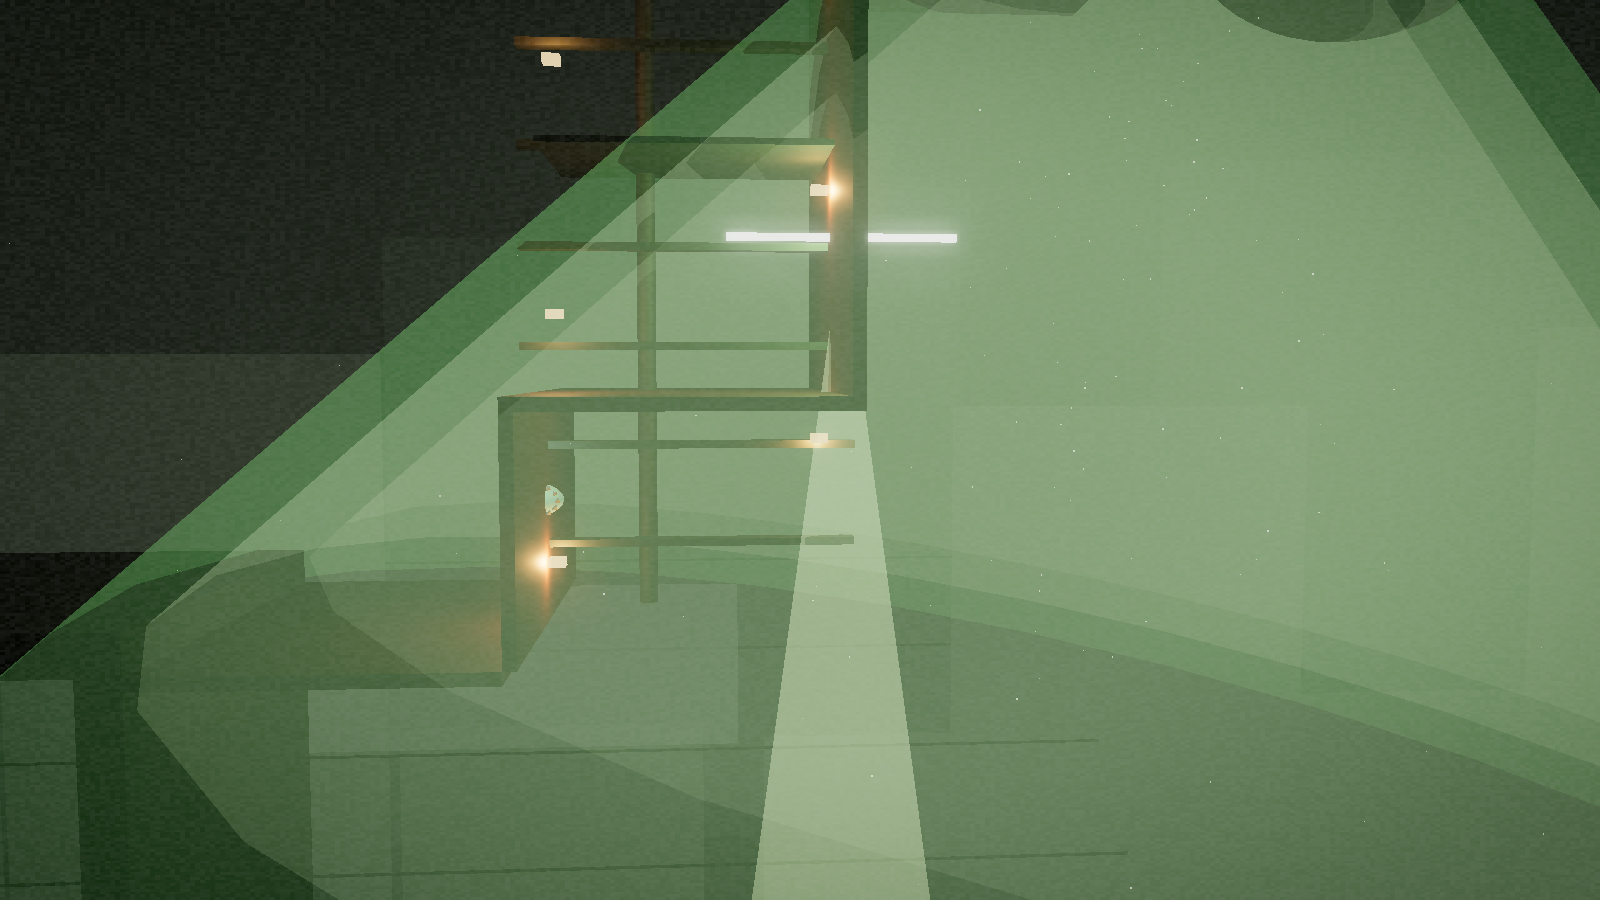
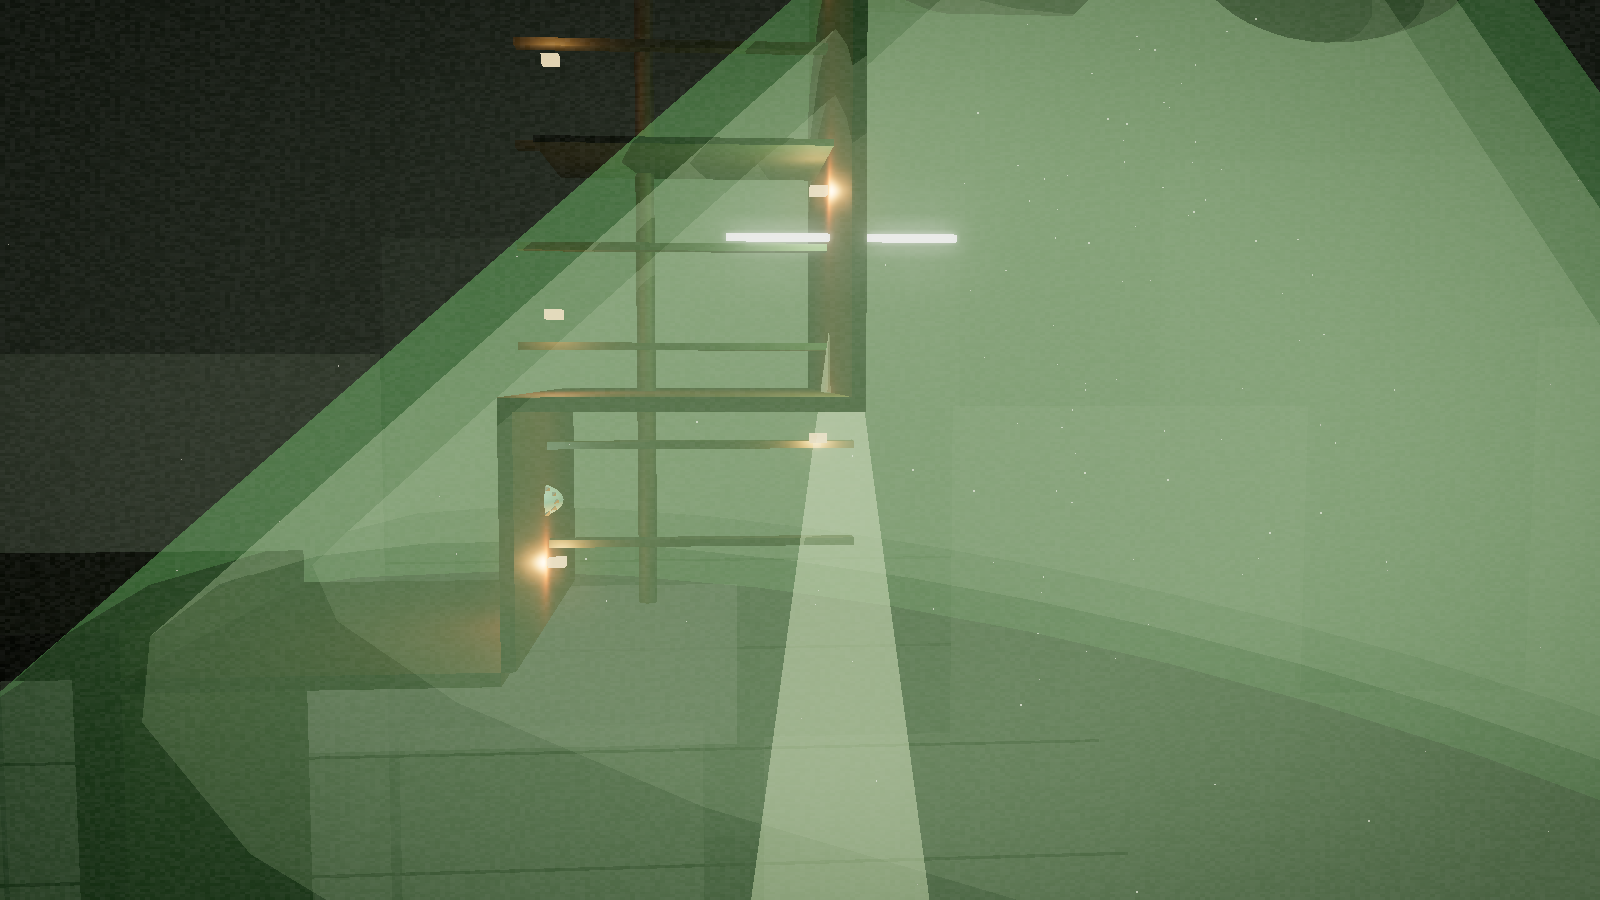
v0.0.1.29 feat(game): title card onboarding, softer flicker (1.2Hz), correct level duration to ~45s

diff --git a/games/pingchuan-rail/game/index.html b/games/pingchuan-rail/game/index.html
@@ -13,7 +13,19 @@
     font: 13px/1.5 "Consolas", "Courier New", monospace; color: #cfd6c9; opacity: .55;
     letter-spacing: .06em; pointer-events: none; text-shadow: 0 1px 4px #000;
   }
-  #hint.hidden { opacity: 0; }
+  #hint {
+    position: fixed; inset: 0; display: flex; flex-direction: column;
+    align-items: center; justify-content: center; gap: .6em;
+    background: radial-gradient(circle at 50% 45%, rgba(10, 14, 10, .55), rgba(6, 8, 6, .9));
+    text-align: center; transition: opacity .45s ease;
+  }
+  .hint-title { font-size: 28px; letter-spacing: .22em; color: #d8e6cf; }
+  .hint-line { font-size: 14px; color: #9aa895; max-width: 32em; line-height: 1.7; }
+  .hint-keys { font-size: 13px; color: #c6d3bd; letter-spacing: .04em; margin-top: .4em; }
+  .hint-tip { font-size: 12px; color: #7d8a78; }
+  .hint-start { font-size: 12px; color: #8fa88a; margin-top: 1.2em; animation: breathe 2.4s ease-in-out infinite; }
+  @keyframes breathe { 0%, 100% { opacity: .35; } 50% { opacity: .95; } }
+  #hint.hidden { opacity: 0; pointer-events: none; }
 </style>
 <script type="importmap">
 { "imports": {
@@ -23,7 +35,13 @@
 </script>
 </head>
 <body>
-<div id="hint">← → 爬行 · ↑ ↓ 爬墙 · 空格 蓄力弹射 · R 重来</div>
+<div id="hint">
+  <div class="hint-title">骸轨 · 平川地铁</div>
+  <div class="hint-line">你是地铁里的一条环节虫。往西，尽头有一小块淡蓝色的光。</div>
+  <div class="hint-keys">← → 爬行　·　↑ ↓ 爬到墙上和顶上　·　按住空格蓄力，松手弹射　·　R 重来</div>
+  <div class="hint-tip">被井口的扫描锥扫到会被送回检查点——躲开那束光。</div>
+  <div class="hint-start">按任意键开始</div>
+</div>
 <script type="module">
 import * as THREE from 'three';
 import { EffectComposer } from 'three/addons/postprocessing/EffectComposer.js';
@@ -925,8 +943,8 @@ function updateScanner(deltaSeconds) {
 // 闪烁灯管：2 Hz 的不稳定电，幅度小（不要变成鬼屋）
 function updateFlickerLamps() {
   flickerLamps.forEach((entry, entryIndex) => {
-    const phase = Math.floor(elapsedSeconds * 2.0 + entryIndex * 0.7) % 9;
-    const dip = phase === 2 || phase === 6 ? 0.25 : 1.0;
+    const phase = Math.floor(elapsedSeconds * 1.2 + entryIndex * 0.7) % 9;
+    const dip = phase === 2 || phase === 6 ? 0.45 : 1.0;
     entry.lamp.intensity = 26.0 * dip;
     entry.tube.scale.y = dip < 1 ? 0.4 : 1.0;
   });

diff --git a/games/pingchuan-rail/SPEC.md b/games/pingchuan-rail/SPEC.md
@@ -317,6 +317,22 @@ MOSS 从"完全没有光"（高光 0.002）变成有光（0.007），但把 `#7f
 **结论**：高光涨了 18 倍、熵从 3.29 到 3.75，但仍不到参考的一半。剩下的差距不是"没光源"，
 而是**参考图整片地板都被过曝的粉尘照亮**——实时渲染要追就得牺牲暗部，所以停手，
 把"站台偏暗"记成已知差异（与 SPEC 9.5 同一结论）。
+## 9.9 时长核算（2026-11-16）
+
+按 SPEC 里的常量算一遍，避免"写 3–5 分钟、实际 45 秒"这种账面错误：
+
+| 段 | 长度 | 速度 | 用时 |
+|---|---|---|---|
+| 站台地面（粉尘） | 92 m（4→96） | 4.2 m/s | 21.9 s |
+| 隧道三根钢轨（金属） | 42 m + 3 次弹射 | 6.4 m/s | ≈ 11.6 s |
+| 穹顶地面（金属） | 46 m（150→196） | 6.4 m/s | 7.2 s |
+| 竖井（金属，含 3 次弹射） | 12 m 垂直 | 6.4 m/s | ≈ 4 s |
+| 井顶到结局 | 6 m | 6.4 m/s | 0.9 s |
+| **合计（纯跑，零失误）** | | | **≈ 45 s** |
+
+所以：**MVP 单关纯跑约 45 秒，新手含试错 2–3 分钟**。README 里"3–5 分钟"已删掉，
+那是正式作品的时长目标。要拉长的话有两条路（都没做）：①站台再加 60–80 m 与两层夹层；
+②把粉尘速度降到 3.2 m/s（但会变闷，需要试玩确认）。
 ## 10. 验收（做完了的判据）
 
 - [ ] 三个固定位置（站台、轨道深沟、竖井）都有"参考视频 | 游戏"并排图
